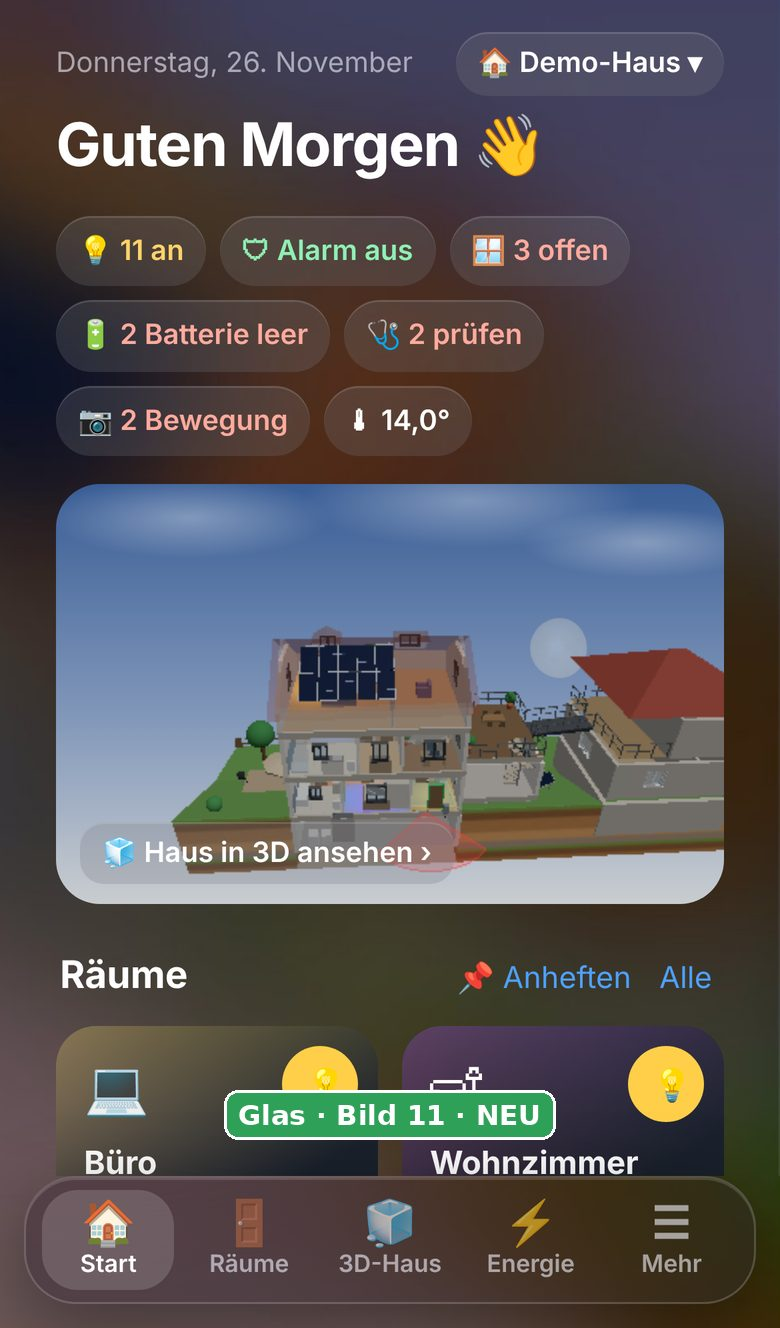
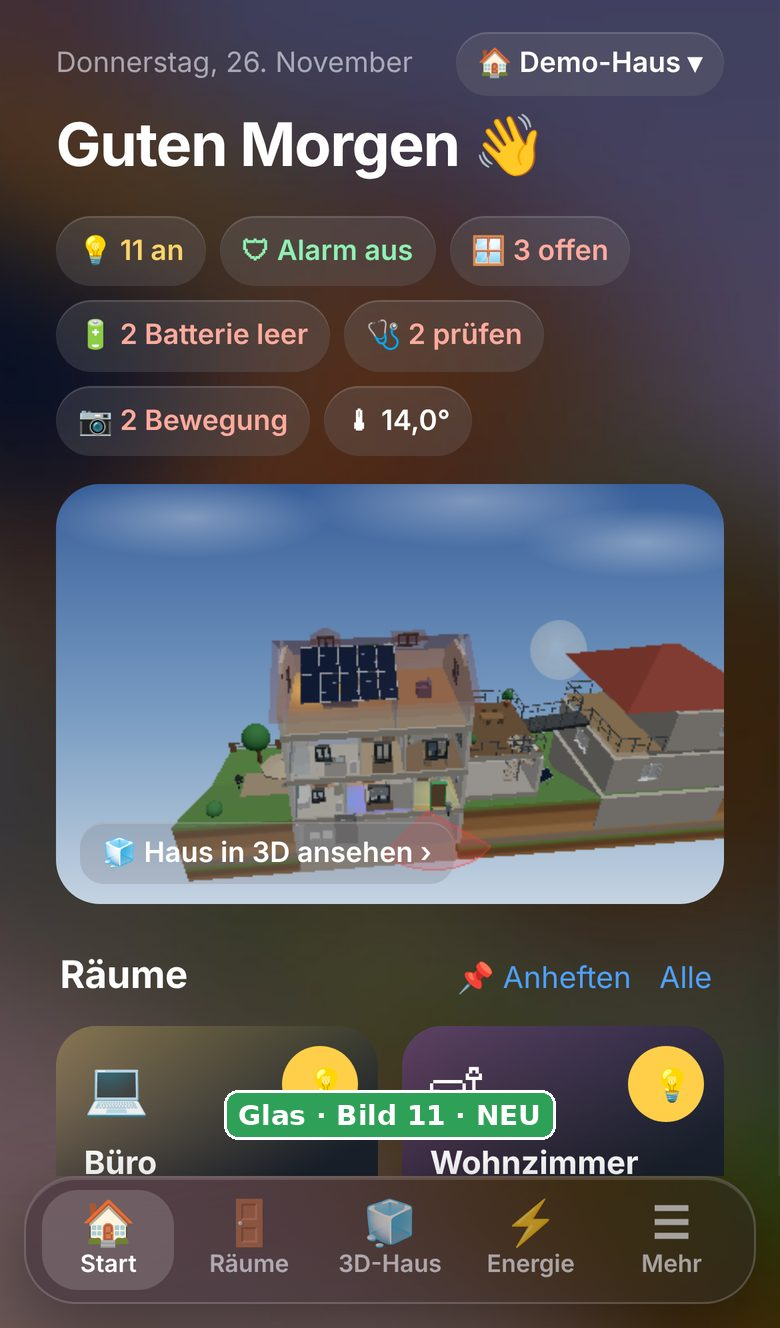
Beispielbilder Glas: mehr Kontrast, Suche/Mikrofon/Kompass in einem Kästchen, Etagen-Namen ohne Schatten
Claude-Session: https://claude.ai/code/session_012p9z3KJk1brXbxK7QmBTRL

Changed region(s): [[0.2154, 0.4631, 0.9538, 0.6792], [0.5231, 0.4631, 0.5538, 0.494]]

diff --git a/docs/ideen-5.37/theme.js b/docs/ideen-5.37/theme.js
@@ -18,7 +18,7 @@ window.__glass = (dark = true, photo = null) => {
   .mkGl { backdrop-filter: blur(30px) saturate(180%) !important; -webkit-backdrop-filter: blur(30px) saturate(180%) !important;
           box-shadow: 0 12px 40px ${dark ? '#0006' : '#5a5a8a22'}, inset 0 1px 0 ${dark ? '#ffffff22' : '#ffffffcc'} !important; border-color: var(--glass-line) !important; }
   .mkGlBig { border-radius: 22px !important; }
-  .mkGlFlat { backdrop-filter: none !important; -webkit-backdrop-filter: none !important; background-color: ${dark ? 'rgba(30,30,40,.55)' : 'rgba(255,255,255,.62)'} !important;
+  .mkGlFlat { backdrop-filter: none !important; -webkit-backdrop-filter: none !important; background-color: ${dark ? 'rgba(26,28,38,.74)' : 'rgba(255,255,255,.84)'} !important;
               border-color: var(--glass-line) !important; box-shadow: inset 0 1px 0 ${dark ? '#ffffff22' : '#ffffffcc'} !important; }   /* no shadow: cut off it made a box (Bild 7) */
   #toolbar { background: transparent !important; border-bottom: 0 !important; box-shadow: none !important; }
   #sceneBar { background: transparent !important; border: 0 !important; }
@@ -34,12 +34,24 @@ window.__glass = (dark = true, photo = null) => {
   #tabBar [data-tab].on, #tabBar [aria-selected=true], #tabBar .active { background: ${dark ? 'rgba(255,255,255,.16)' : 'rgba(255,255,255,.9)'} !important; border-color: transparent !important; box-shadow: 0 2px 10px #0002 !important; }
   [data-page]:not([data-page=house]) { background: ${wallImg || wall} !important; background-attachment: fixed !important; }
   .mkRound { border-radius: 999px !important; }
+  /* readable on the 3D picture (his feedback on Bild 7 and 15) */
+  .rlPill { background: ${dark ? 'rgba(22,24,34,.82)' : 'rgba(255,255,255,.9)'} !important; color: ${dark ? '#fff' : '#1c1c1e'} !important; border: 1px solid var(--glass-line) !important;
+            backdrop-filter: blur(16px) saturate(160%) !important; box-shadow: 0 4px 14px #0004 !important; }
+  .rlPill * { color: inherit; opacity: 1 !important; }
+  .floorThumb span { text-shadow: none !important; font-weight: 700 !important; color: var(--text) !important; }
+  #roomTiles * { opacity: 1 !important; }
+  #mkTools { position: absolute; z-index: 4; border-radius: 22px; background: ${dark ? 'rgba(26,28,38,.74)' : 'rgba(255,255,255,.84)'};
+             border: 1px solid var(--glass-line); box-shadow: 0 10px 30px #0005, inset 0 1px 0 ${dark ? '#ffffff22' : '#ffffffcc'};
+             backdrop-filter: blur(24px) saturate(170%); -webkit-backdrop-filter: blur(24px) saturate(170%); pointer-events: none; }
+  #compass { color: var(--text) !important; font-weight: 600; }
+  #compass .cRing { fill-opacity: 0 !important; stroke: var(--glass-line) !important; }
+  #findBtn, #voiceBtn { background: ${dark ? 'rgba(255,255,255,.12)' : 'rgba(0,0,0,.06)'} !important; box-shadow: none !important; }
   `;
   document.head.appendChild(st);
   const panelRgb = (c) => { const m = c.match(/rgba?\(([^)]+)\)/); if (!m) return null; const p = m[1].split(',').map(Number); return p.length === 4 ? p : [...p, 1]; };
   const mark = () => {
     for (const e of document.querySelectorAll('body *')) {
-      if (e.tagName === 'CANVAS' || e.closest('svg') || e.classList.contains('mkGl')) continue;
+      if (e.tagName === 'CANVAS' || e.closest('svg') || e.classList.contains('mkGl') || e.closest('.rlPill')) continue;
       const cs = getComputedStyle(e), p = panelRgb(cs.backgroundColor);
       if (!dark && /gradient/.test(cs.backgroundImage) && ((h, w) => h > 80 && h < innerHeight * 0.35 && w < innerWidth * 0.8)(e.getBoundingClientRect().height, e.getBoundingClientRect().width)) e.style.setProperty('color', '#fff', 'important');   // dark picture tiles keep white text
       if (!p || p[3] === 0) continue;
@@ -54,7 +66,7 @@ window.__glass = (dark = true, photo = null) => {
         if (!dark) { const c = panelRgb(cs.color); if (c && (c[0] + c[1] + c[2]) / 3 > 140 && Math.max(...c.slice(0, 3)) - Math.min(...c.slice(0, 3)) > 40) e.style.setProperty('color', `color-mix(in srgb, ${cs.color} 55%, #000)`, 'important'); }   // pale coloured text: darker on light glass
         // in a strip that scrolls or fades out (the tiles, the floors, the chips at the top) the browser draws the blur as a box: glass without blur there
         const inStrip = (() => { for (let x = e.parentElement; x && x !== document.body; x = x.parentElement) { const c = getComputedStyle(x); if (/auto|scroll|hidden/.test(c.overflowX + c.overflowY) && x.scrollWidth + x.scrollHeight > 0 && !x.matches('[data-page]') || c.maskImage !== 'none') return true; } return false; })();
-        if (inStrip && !document.querySelector('[data-page]:not([hidden]):not([data-page=house])')?.contains(e)) e.classList.add('mkGlFlat');
+        if (inStrip && !document.querySelector('[data-page]:not([hidden]):not([data-page=house])')?.contains(e)) { e.classList.add('mkGlFlat'); e.style.setProperty('background-color', dark ? 'rgba(26,28,38,.74)' : 'rgba(255,255,255,.84)', 'important'); }
         else if (!e.parentElement?.closest('.mkGl')) e.classList.add('mkGl');
         if (r.width > 120 && r.height > 60) e.classList.add('mkGlBig');
       }
@@ -87,7 +99,28 @@ window.__glass = (dark = true, photo = null) => {
         e.style.setProperty('box-shadow', e.matches('.mkGl, .mkGlFlat') ? `inset 0 1px 0 ${dark ? '#ffffff22' : '#ffffffcc'}` : 'none', 'important'); }
     }
   };
-  mark(); clear(); strips();
-  window.__mkMark = () => { mark(); clear(); strips(); };                                   // again after a page drew itself anew
+  const tools = () => {           // search, microphone and compass together in one glass box
+    const els = ['#compass', '#findBtn', '#voiceBtn'].map((q) => document.querySelector(q)).filter((e) => e && e.getBoundingClientRect().width);
+    document.querySelector('#mkTools')?.remove();
+    if (els.length < 2) return;
+    const st = els[0].offsetParent; if (!st) return;
+    const pr = st.getBoundingClientRect(), rs = els.map((e) => e.getBoundingClientRect()), pad = 8;
+    const l = Math.min(...rs.map((r) => r.left)) - pad, t = Math.min(...rs.map((r) => r.top)) - pad, rr = Math.max(...rs.map((r) => r.right)) + pad, b = Math.max(...rs.map((r) => r.bottom)) + pad;
+    const box = document.createElement('div'); box.id = 'mkTools';
+    Object.assign(box.style, { left: `${l - pr.left}px`, top: `${t - pr.top}px`, width: `${rr - l}px`, height: `${b - t}px` });
+    st.insertBefore(box, st.firstElementChild?.nextSibling || null);
+    const cp = document.querySelector('#compass'); if (cp) cp.style.left = `${(l - pr.left) + ((rr - l) - cp.offsetWidth) / 2}px`;
+  };
+  const tiles = () => {           // texts in the tiles: full strength
+    for (const e of document.querySelectorAll('#roomTiles *, .rlPill *')) {
+      const c = panelRgb(getComputedStyle(e).color); if (!c) continue;
+      const grey = Math.max(...c.slice(0, 3)) - Math.min(...c.slice(0, 3)) < 40, lum = (c[0] + c[1] + c[2]) / 3;
+      if (dark && (c[3] < 0.9 || lum < 175) && grey) e.style.setProperty('color', 'rgba(255,255,255,.88)', 'important');
+      if (!dark && grey && lum > 90) e.style.setProperty('color', '#1c1c1e', 'important');                       // white text on light glass: dark
+      if (!dark && !grey && lum > 140) e.style.setProperty('color', `color-mix(in srgb, ${getComputedStyle(e).color} 55%, #000)`, 'important');   // pale colours: darker
+    }
+  };
+  mark(); clear(); strips(); tools(); tiles();
+  window.__mkMark = () => { mark(); clear(); strips(); tools(); tiles(); };                                   // again after a page drew itself anew
   return mark;
 };

diff --git a/docs/UEBERGABE.md b/docs/UEBERGABE.md
@@ -10,7 +10,7 @@ Stand: 2026-11-26, Version **5.36.1** (5.31.0 ist für alle freigegeben). Erst d
 
 ## Zuletzt
 
-- **2026-11-26: ⚡ Beispielbilder Energie-Seite moderner (Branch `claude/quirky-rubin-x6173y`):** sein Wunsch „fotorealistischer und moderner, erst mal Beispielbilder“: `docs/ideen-5.37` (Idee 1 Haus mit Stromfluss, Idee 2 Glas-Look, Idee 3 Handy). Seine Wahl: Idee 2 (Glas); dazu wünscht er ein Design „Glas (Apple-Stil)“ für die ganze App neben „Klassisch“: Bilder 6–15 (Hintergrund = sein Haus verschwommen wie Bild 3, den Kasten hinter den Kacheln in Bild 7 entfernt), seine Antwort fehlt.
+- **2026-11-26: ⚡ Beispielbilder Energie-Seite moderner (Branch `claude/quirky-rubin-x6173y`):** sein Wunsch „fotorealistischer und moderner, erst mal Beispielbilder“: `docs/ideen-5.37` (Idee 1 Haus mit Stromfluss, Idee 2 Glas-Look, Idee 3 Handy). Seine Wahl: Idee 2 (Glas); dazu wünscht er ein Design „Glas (Apple-Stil)“ für die ganze App neben „Klassisch“: Bilder 6–15 (Hintergrund = sein Haus verschwommen wie Bild 3, den Kasten hinter den Kacheln in Bild 7 entfernt; dann mehr Kontrast, Suche/Mikro/Kompass in einem Kästchen), seine Antwort fehlt.
 - **2026-11-26: 🔁 Connector-Sync wieder grün (#809, Branch `claude/new-session-urykqp`):** sein Bild vom roten „Sync from HA-Floorplanner“ #44: ein Lauf hatte 5.36.0 halb angelegt (Tag ja, Release nein), danach brach jeder Lauf bei `git tag` ab; `tools/connector_mirror.py` macht das jetzt fertig, versucht das Release mehrmals und schreibt die Fehlermeldung ins Log.
 - **2026-11-25, 5.36.1: 🧪 alle Tests, die Claude machen kann (Branch `claude/gallant-wozniak-goamz9`):** sein Wunsch „Mach mal alle Tests, die du machen kannst“: automatische Tests, die offenen Punkte 194 bis 235 in der Demo (PC, nachgebautes iPhone), im Test-Add-on und auf GitHub; 36 Punkte ✅ (offen 151 statt 186). Gefunden und repariert: „{name}“ beim Haus-Löschen (#803), rechter Winkel mit Raster (#804), „1 Kameras“ (#805), englisches Video `phone-dash` fehlte (#806).
 - **2026-11-25, 5.36.0: 📱 Rückmeldung zur Handy-App (#801, Branch `claude/focused-darwin-wjndmo`):** Kacheln sahen ein Licht nicht zuverlässig (nur 6 Kacheln, die Demo hat 8 Räume mit Licht; Relais-Lampen und Wandlampen auf der Kante zählten nicht): jeder Raum mit Licht steht da, Kachel in der Lichtfarbe, Räume anheften (je Handy), runder Knopf mit alles an/aus und Szenen, Chips in Zeilen, 📷-Chip, oben kein leerer Streifen, „✎ Bearbeiten“ auf den Seiten der App (`appshell.js`, `appui.js`, `roomLightIds` in `roomtiles.js`, `tabsui.js`). Er wollte vor dem Veröffentlichen Bilder sehen.

diff --git a/docs/ideen-5.37/README.md b/docs/ideen-5.37/README.md
@@ -43,3 +43,7 @@ Schildern): das waren Schatten und Unschärfe der Kacheln, die der Browser in ei
     python3 docs/ideen-5.37/make_wall.py <ordner>
     node docs/ideen-5.37/make_theme.cjs <ordner>
     python3 docs/ideen-5.37/to_jpg.py <ordner> docs/ideen-5.37
+
+Dritte Runde (seine Rückmeldung zu Bild 7 und 15): Szenen-Kacheln und Raum-Kacheln weniger durchsichtig, Schrift darin voll lesbar; die Schilder über
+den Zimmern mit mehr Kontrast; Suche, Mikrofon und Kompass zusammen in einem Glas-Kästchen unten links; die Etagen-Namen ohne den schwarzen,
+verschwommenen Schatten (Glas hell).
